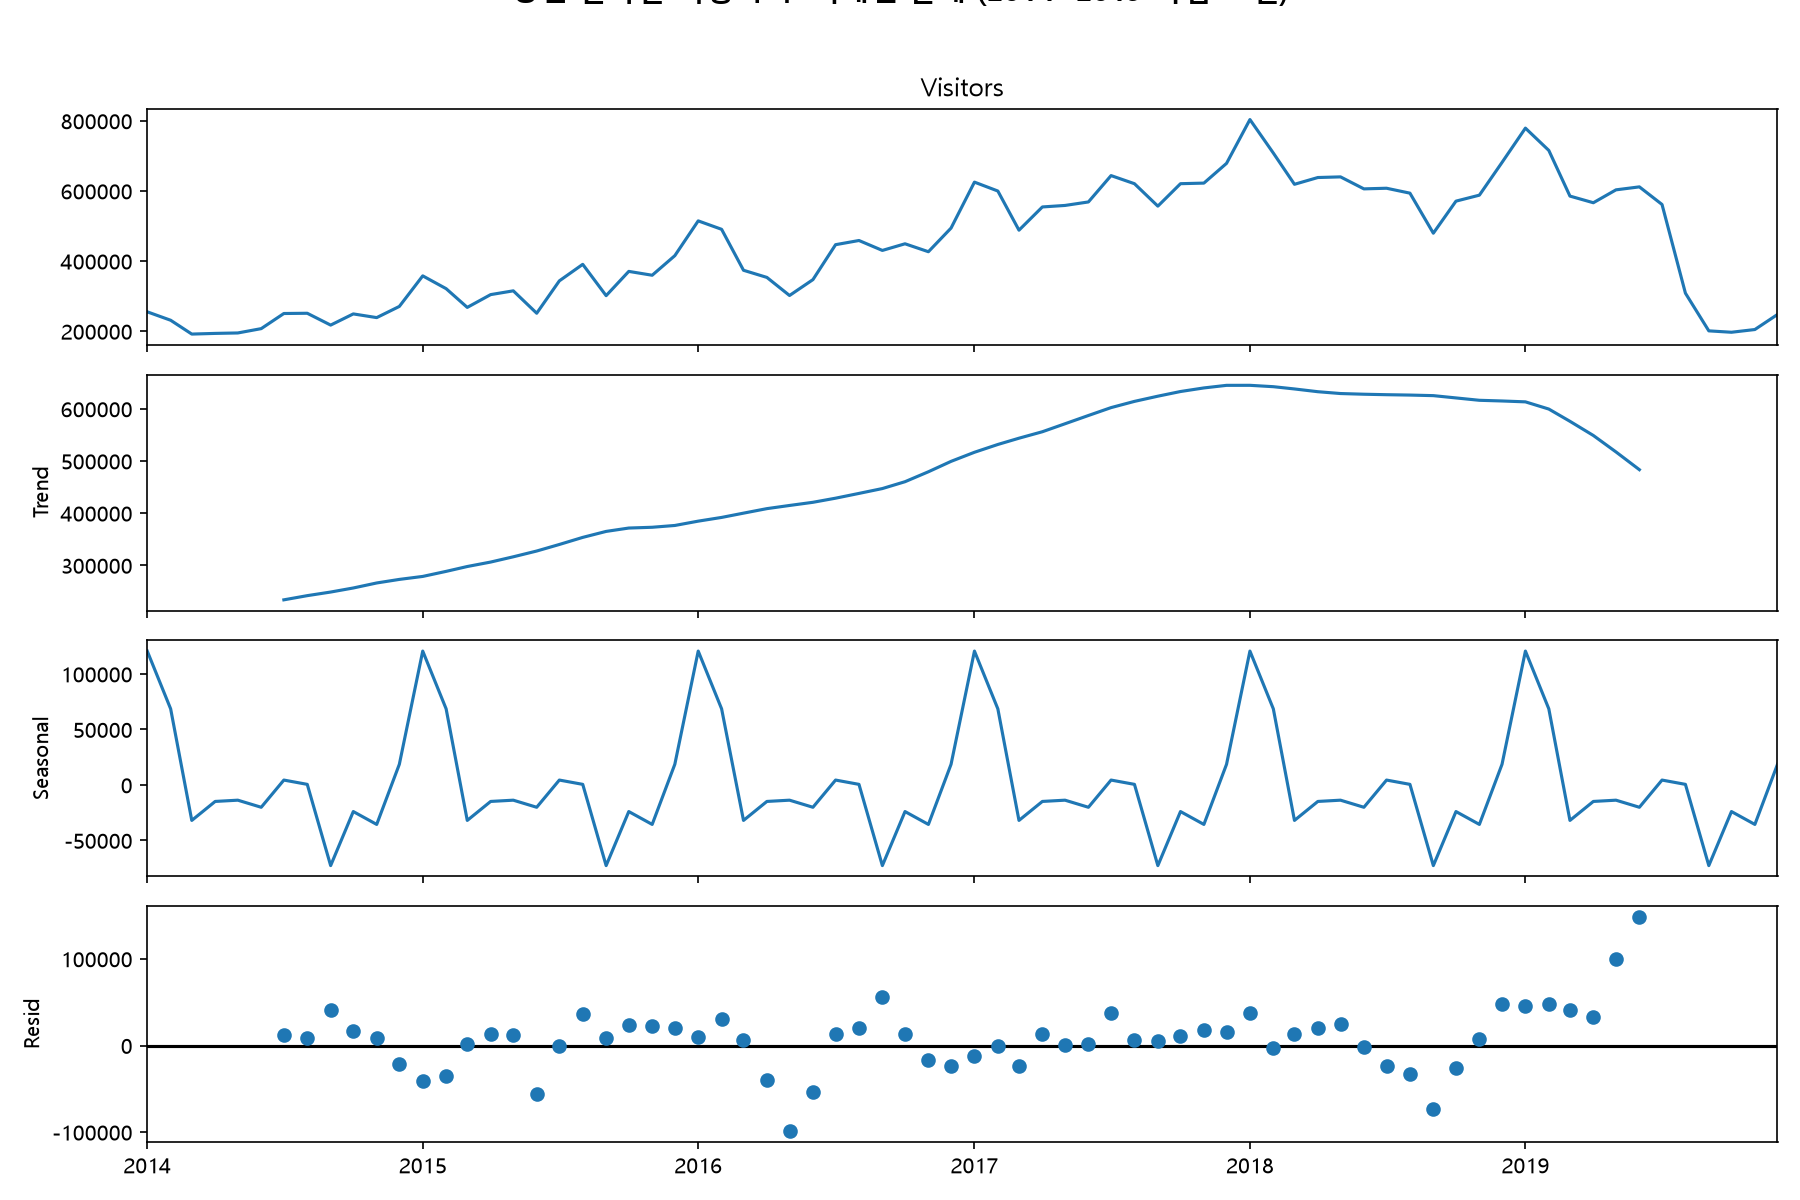
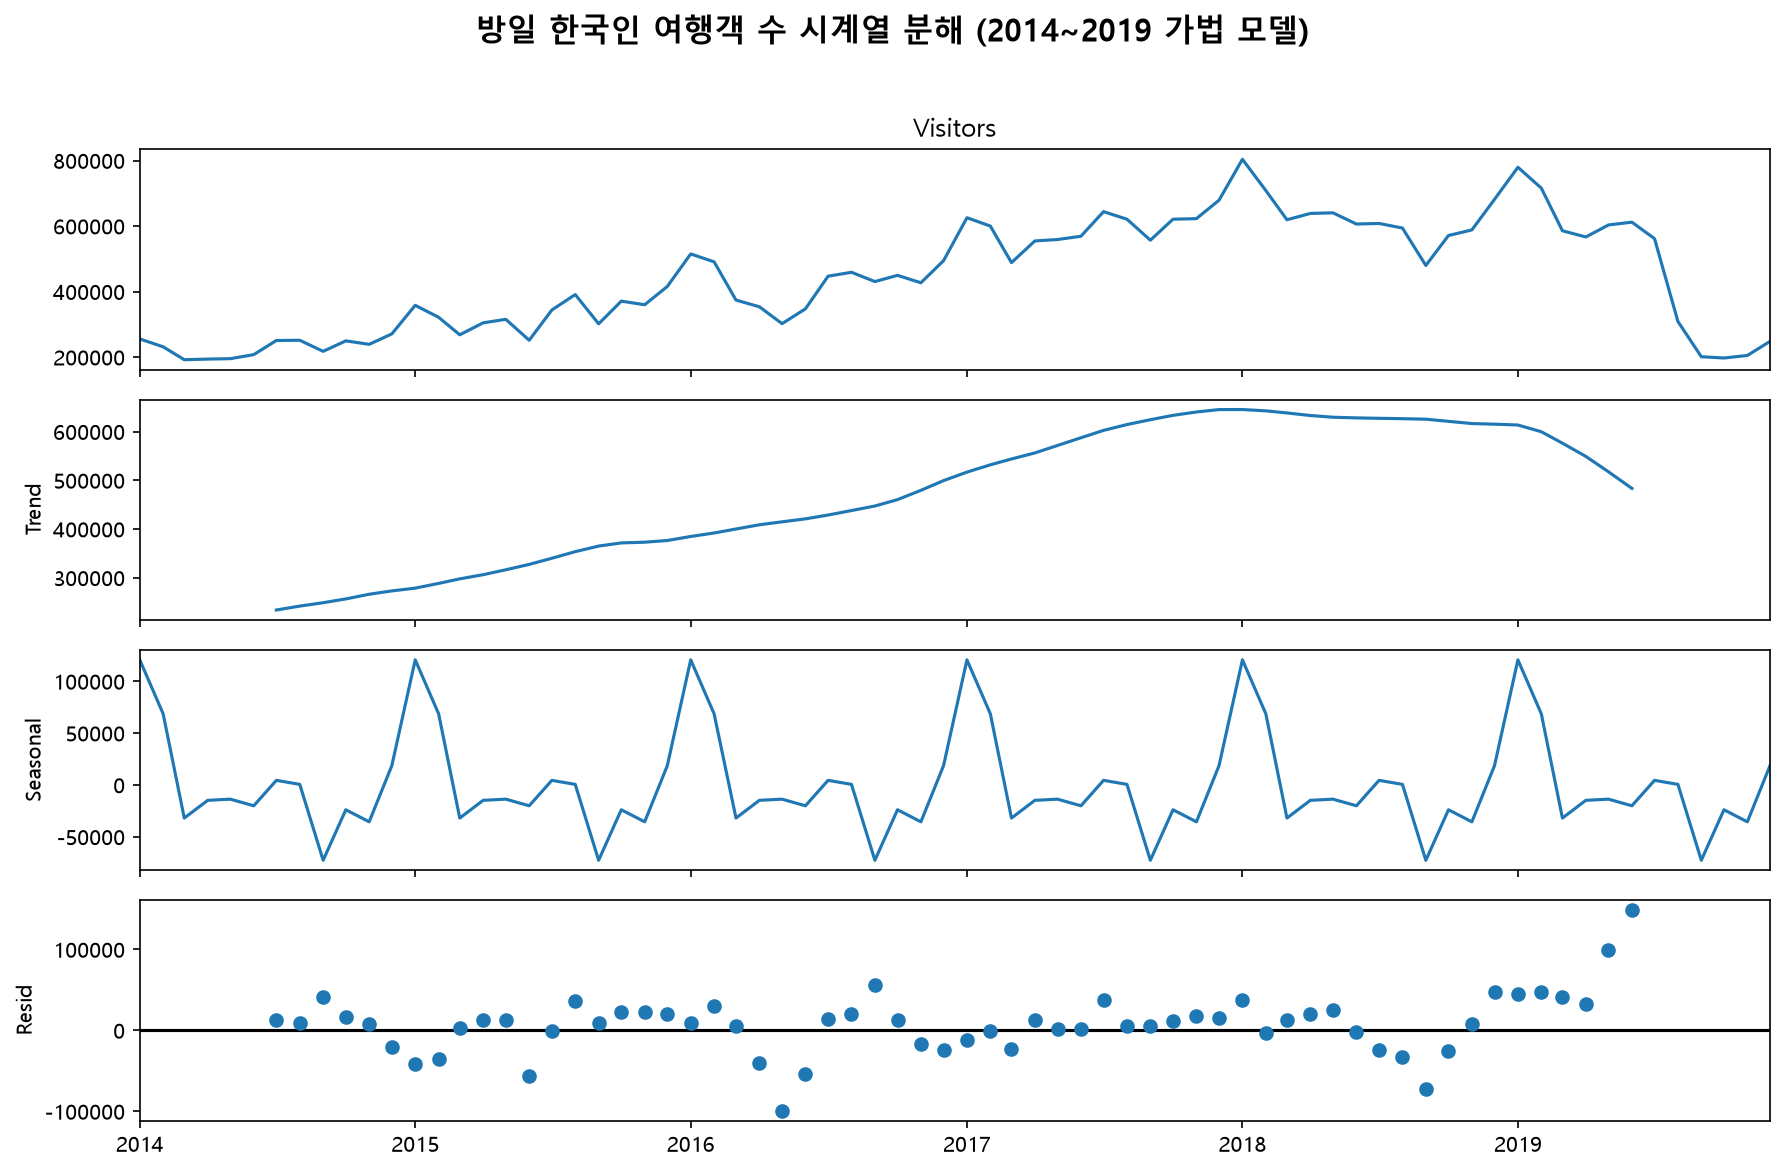
fix(viz): adjust top margin and title layout in time series decomposition plot
- Fix suptitle layout with rect=[0, 0, 1, 0.95] and bbox_inches='tight' so title is fully visible

- Sync run_analysis.py and analysis.ipynb (Cell 17)

diff --git a/run_analysis.py b/run_analysis.py
@@ -159,9 +159,9 @@ plt.close()
 # 차트 3: 시계열 분해도
 fig = decomp.plot()
 fig.set_size_inches(12, 8)
-plt.suptitle('방일 한국인 여행객 수 시계열 분해 (2014~2019 가법 모델)', fontsize=14, fontweight='bold', y=1.02)
-plt.tight_layout()
-fig.savefig(os.path.join(IMAGES_DIR, '03_time_series_decomposition.png'), dpi=150)
+plt.suptitle('방일 한국인 여행객 수 시계열 분해 (2014~2019 가법 모델)', fontsize=15, fontweight='bold', y=0.97)
+fig.tight_layout(rect=[0, 0, 1, 0.95])
+fig.savefig(os.path.join(IMAGES_DIR, '03_time_series_decomposition.png'), dpi=150, bbox_inches='tight')
 plt.close()
 
 # 차트 4: 월별 박스플롯 (시계열 분해와 동일한 2014~2019 정상기 기준)
